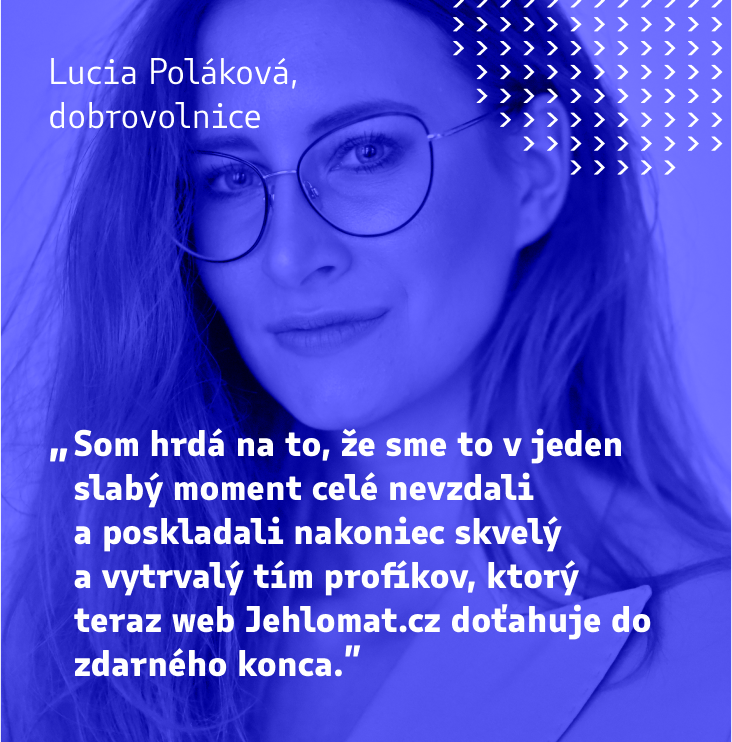
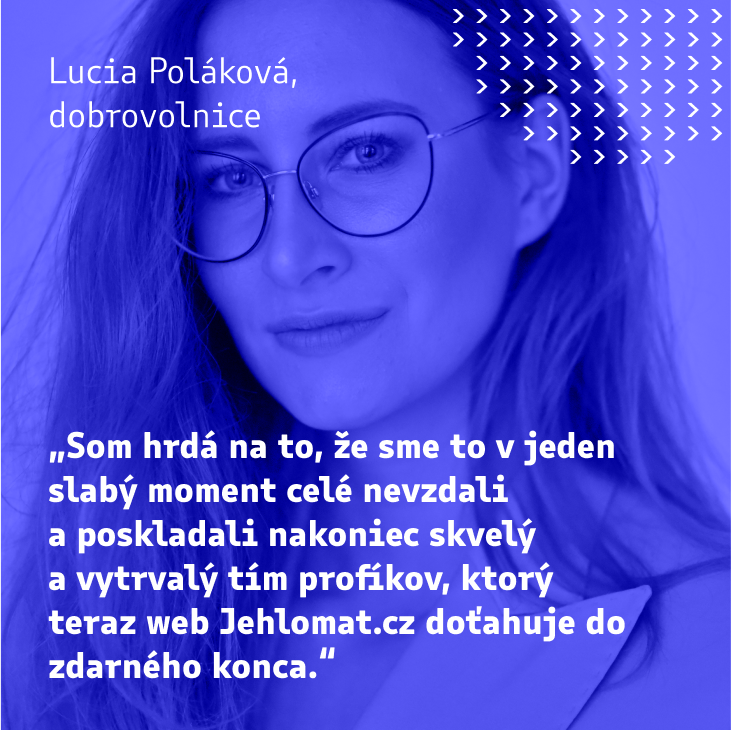
Improve volunteer testimonial tiles on About page

diff --git a/pages/about.tsx b/pages/about.tsx
@@ -22,6 +22,7 @@ import {
 import {
   Tereza,
   Tomas,
+  TomasN,
   Radka,
   Jan,
   Katerina,
@@ -97,8 +98,8 @@ const VolunteerSection = () => (
         text="Spolupráce s Česko.Digital se mi moc líbila. Byl to první krůček k oboru IT."
       />
       <VolunteerCard
-        image={Tomas}
-        text="Česko.Digital mi umožňuje pomáhat svými znalostmi a zkušenostmi a efektivně tak využít / předat to, co jsem se naučil."
+        image={TomasN}
+        text="Česko.Digital mi umožňuje pomáhat mými znalostmi a zkušenostmi a efektivně tak využít / předat to, co jsem se naučil."
       />
       <VolunteerCard
         image={OndrejK}
@@ -110,7 +111,7 @@ const VolunteerSection = () => (
       />
       <VolunteerCard
         image={Jan}
-        text="Baví mě se potkávat s inspirativními lidmi, od kterých mohu čerpat nové zkušenosti a informace a zároveň jsem rád, když jim s něčím mohu pomoci i já."
+        text="Baví mě se potkávat s inspirativními lidmi, od kterých mohu čerpat nové zkušenosti a informace, a zároveň jsem rád, když jim s něčím mohu pomoci i já."
       />
     </div>
   </section>

diff --git a/components/about/volunteers/index.ts b/components/about/volunteers/index.ts
@@ -1,5 +1,6 @@
 export { default as Tereza } from "./tereza.png";
 export { default as Tomas } from "./tomas.png";
+export { default as TomasN } from "./tomasn.png";
 export { default as Radka } from "./radka.png";
 export { default as Jan } from "./jan.png";
 export { default as Katerina } from "./katerina.png";
